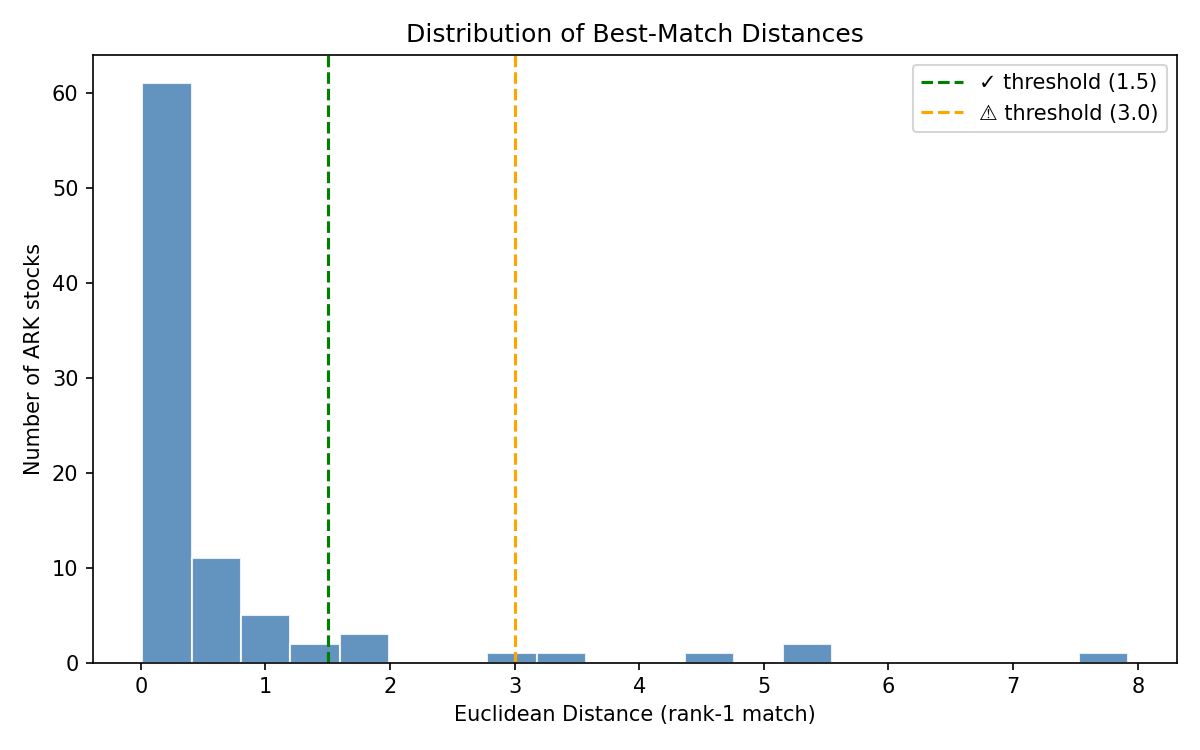
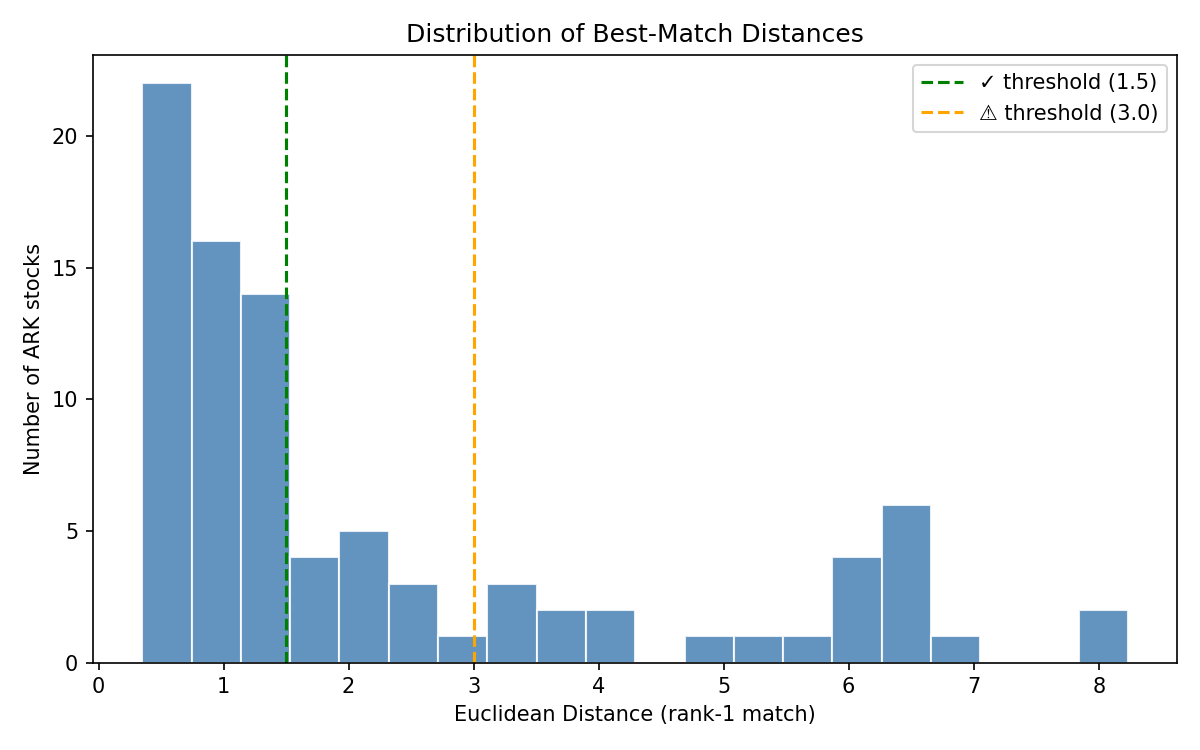
Fix get_korean_financials DART parsing; add caching; run full pipeline with rev_growth/gross_margin/ps_ratio

diff --git a/knn_pipeline.py b/knn_pipeline.py
@@ -74,9 +74,10 @@ def get_korean_fundamentals(kr_universe):
          continue
    return pd.DataFrame(records)
 
-def get_korean_financials(kr_df):
-   '''fetches rev_growth and gross_margin for KOSPI stocks via DART OpenAPI.
+def get_korean_financials(kr_df, cache_path='raw-data/kr_financials_cache.csv'):
+   '''fetches rev_growth, gross_margin, ps_ratio for KOSPI stocks via DART OpenAPI.
    Requires DART_API_KEY in .env or environment.
+   Results are cached to cache_path to avoid re-fetching on subsequent runs.
    Merges results into kr_df and returns updated DataFrame.'''
    from dotenv import load_dotenv
    import dart_fss as dart
@@ -87,48 +88,89 @@ def get_korean_financials(kr_df):
       raise EnvironmentError("DART_API_KEY not set. Get a free key at https://opendart.fss.or.kr/")
    dart.set_api_key(api_key)
 
+   # Load cache if it exists
+   cache_file = Path(cache_path)
+   if cache_file.exists():
+      cached = pd.read_csv(cache_file)
+      already_fetched = set(cached['Code'].astype(str))
+      to_fetch = kr_df[~kr_df['Code'].astype(str).isin(already_fetched)]
+      print(f"Cache hit: {len(already_fetched)} stocks. Fetching {len(to_fetch)} new stocks.")
+   else:
+      cached = pd.DataFrame()
+      to_fetch = kr_df
+
+   if to_fetch.empty:
+      return kr_df.merge(cached, on='Code', how='left')
+
    corp_list = dart.get_corp_list()
 
-   records = []
-   for _, row in tqdm(kr_df.iterrows(), total=len(kr_df), desc='Fetching DART financials'):
+   def _parse(val):
+      try: return float(str(val).replace(',', ''))
+      except: return None
+
+   def _get_row(df, label_col, label):
+      rows = df[df[label_col].astype(str) == label]
+      return rows.iloc[0] if not rows.empty else None
+
+   new_records = []
+   for _, row in tqdm(to_fetch.iterrows(), total=len(to_fetch), desc='Fetching DART financials'):
       code = row['Code']
       try:
          corp = corp_list.find_by_stock_code(code)
          if corp is None:
             continue
-         # Annual report (11011), latest 2 years to compute growth
-         fs = corp.get_financial_statements(bsns_year='2024', reprt_code='11011', separate=False)
-         if fs is None:
-            continue
-         is_df = fs['IS'] if 'IS' in fs else fs.get('CIS')
+         fs = corp.extract_fs(bgn_de='20230101')
+         stmts = fs._statements
+         # Try IS first, then CIS — pick whichever has 매출액
+         is_df = None
+         for key in ('is', 'cis'):
+            candidate = stmts.get(key)
+            if candidate is not None and not candidate.empty:
+               lk = [c for c in candidate.columns if 'label_ko' in str(c)]
+               if lk and (candidate[lk[0]].astype(str) == '매출액').any():
+                  is_df = candidate
+                  break
          if is_df is None:
             continue
-         revenue_rows = is_df[is_df.index.str.contains('매출', na=False)]
-         cogs_rows    = is_df[is_df.index.str.contains('매출원가', na=False)]
-         if revenue_rows.empty:
+
+         label_col = [c for c in is_df.columns if 'label_ko' in str(c)][0]
+         excl_set  = {c for c in is_df.columns if any(x in str(c) for x in ['label', 'concept', 'class'])}
+         val_cols  = [c for c in is_df.columns if c not in excl_set]
+         if len(val_cols) < 2:
             continue
-         rev_curr = float(str(revenue_rows.iloc[0, 0]).replace(',', '') or 0)
-         rev_prev = float(str(revenue_rows.iloc[0, 1]).replace(',', '') or 0) if revenue_rows.shape[1] > 1 else None
-         rev_growth   = (rev_curr - rev_prev) / abs(rev_prev) if rev_prev else None
-         gross_margin = None
-         if not cogs_rows.empty and rev_curr:
-            cogs = float(str(cogs_rows.iloc[0, 0]).replace(',', '') or 0)
-            gross_margin = (rev_curr - cogs) / rev_curr
-         ps_ratio = row['market_cap'] / (rev_curr / 1e8) if rev_curr else None  # Marcap in KRW, revenue in 억원
-         records.append({
-            'Code':        code,
-            'rev_growth':  rev_growth,
-            'gross_margin': gross_margin,
-            'ps_ratio':    ps_ratio,
-         })
+
+         rev_row = _get_row(is_df, label_col, '매출액')
+         gp_row  = _get_row(is_df, label_col, '매출총이익')
+         cg_row  = _get_row(is_df, label_col, '매출원가')
+         if rev_row is None:
+            continue
+
+         rev_curr     = _parse(rev_row[val_cols[0]])
+         rev_prev     = _parse(rev_row[val_cols[1]])
+         rev_growth   = (rev_curr - rev_prev) / abs(rev_prev) if rev_curr and rev_prev else None
+         gp           = _parse(gp_row[val_cols[0]]) if gp_row is not None else None
+         if gp is None and cg_row is not None:
+            cogs = _parse(cg_row[val_cols[0]])
+            gp   = rev_curr - cogs if rev_curr and cogs else None
+         gross_margin = gp / rev_curr if gp and rev_curr else None
+         ps_ratio     = (row['market_cap'] * 1350) / rev_curr if rev_curr and row['market_cap'] else None
+
+         new_records.append({'Code': code, 'rev_growth': rev_growth,
+                              'gross_margin': gross_margin, 'ps_ratio': ps_ratio})
       except Exception:
          continue
 
-   if not records:
-      return kr_df
+   new_df = pd.DataFrame(new_records)
+   if not new_df.empty:
+      combined = pd.concat([cached, new_df], ignore_index=True)
+      cache_file.parent.mkdir(parents=True, exist_ok=True)
+      combined.to_csv(cache_path, index=False)
+   else:
+      combined = cached
 
-   fin_df = pd.DataFrame(records)
-   return kr_df.merge(fin_df, on='Code', how='left')
+   if combined.empty:
+      return kr_df
+   return kr_df.merge(combined, on='Code', how='left')
 
 US_THEME_MAP = {
     'Technology':             'AI/Tech',